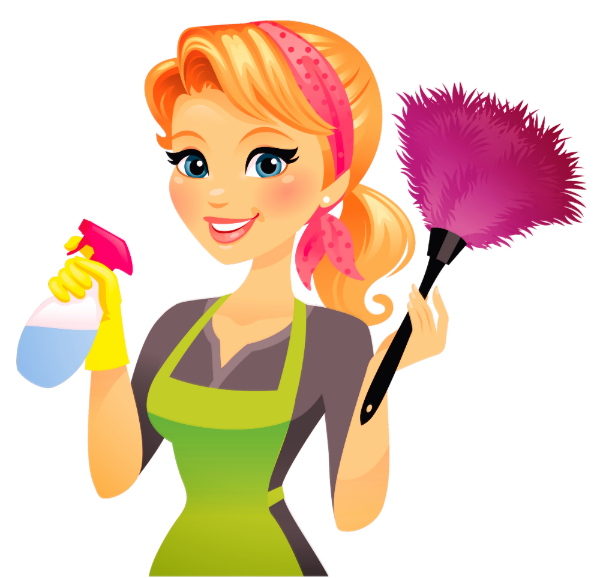
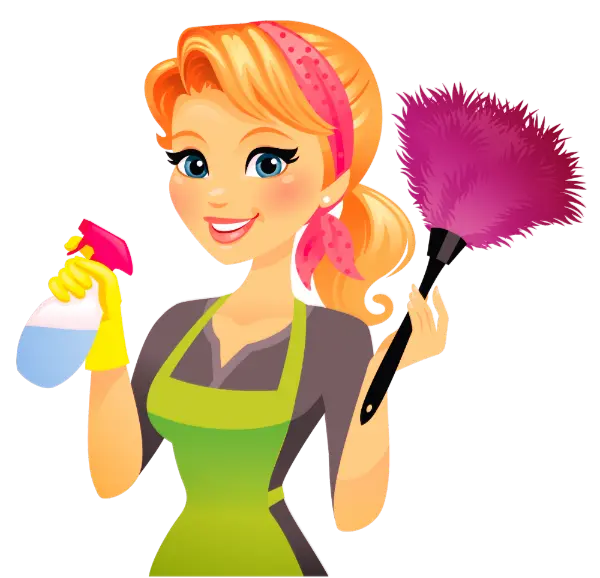
compressed images and set font fall back

diff --git a/src/components/layout.css b/src/components/layout.css
@@ -11,7 +11,8 @@ html {
 
 @font-face {
   font-family: Open-Sans;
-  src: url("../fonts/OpenSans-Regular.ttf");
+  src: url("../fonts/OpenSans-Regular.ttf") format("ttf");
+  font-display: fallback;
 }
 
 main {
